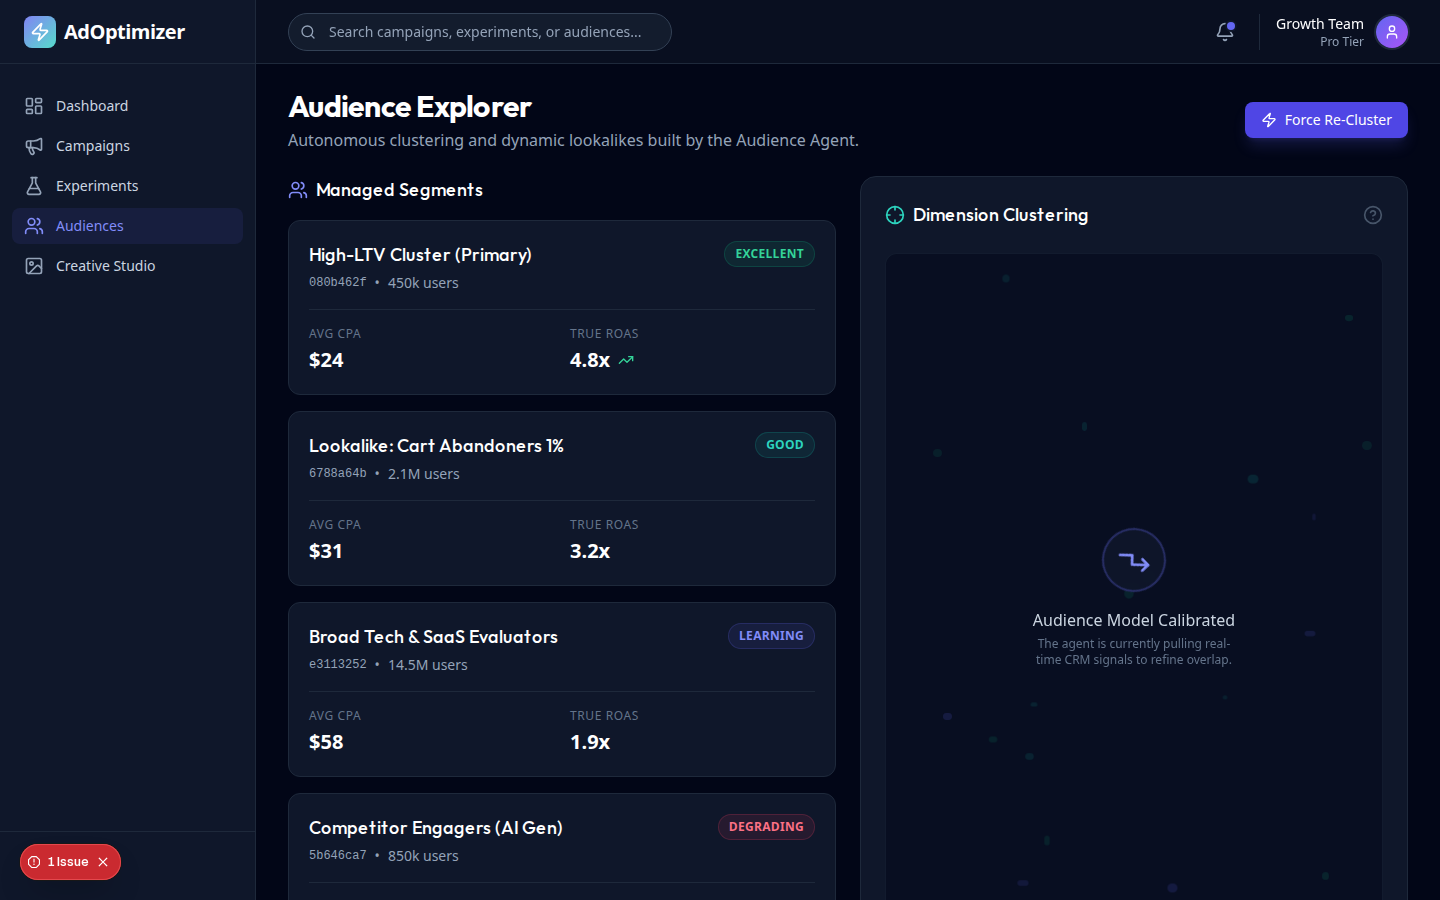
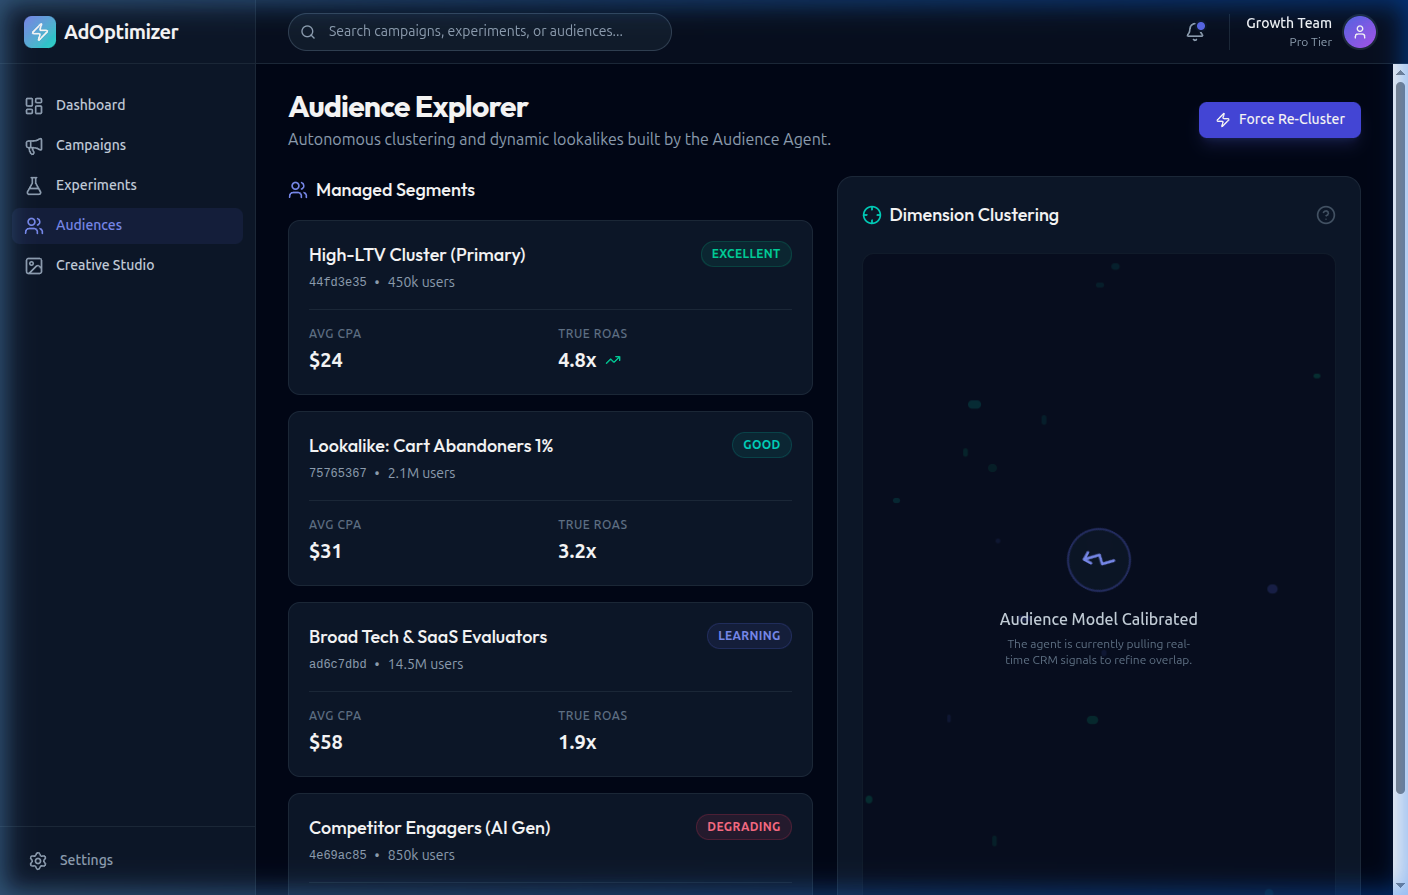
Fix page fluffs: clean screenshots, remove error badge, fix chart size warning

diff --git a/web/src/app/page.tsx b/web/src/app/page.tsx
@@ -113,12 +113,12 @@ export default function Dashboard() {
 
       {/* Charts Section */}
       <div className="grid grid-cols-1 lg:grid-cols-3 gap-6">
-        <motion.div variants={itemVariants} className="lg:col-span-2 bg-slate-900 border border-slate-800 rounded-2xl p-6">
+        <motion.div variants={itemVariants} className="lg:col-span-2 bg-slate-900 border border-slate-800 rounded-2xl p-6" style={{ minWidth: 0 }}>
           <div className="mb-6">
             <h2 className="text-lg font-bold text-white font-heading">ROAS Velocity (Intraday)</h2>
             <p className="text-sm text-slate-400">Predicted vs. Actual Returns mapped against Agent Bidding aggressive spikes.</p>
           </div>
-          <div className="h-[300px] w-full">
+          <div style={{ width: '100%', height: 300, minWidth: 0 }}>
             <ResponsiveContainer width="100%" height="100%">
               <AreaChart data={performanceData}>
                 <defs>
@@ -139,6 +139,7 @@ export default function Dashboard() {
             </ResponsiveContainer>
           </div>
         </motion.div>
+
 
         <motion.div variants={itemVariants} className="bg-slate-900 border border-slate-800 rounded-2xl p-6 flex flex-col">
           <div className="mb-4">
